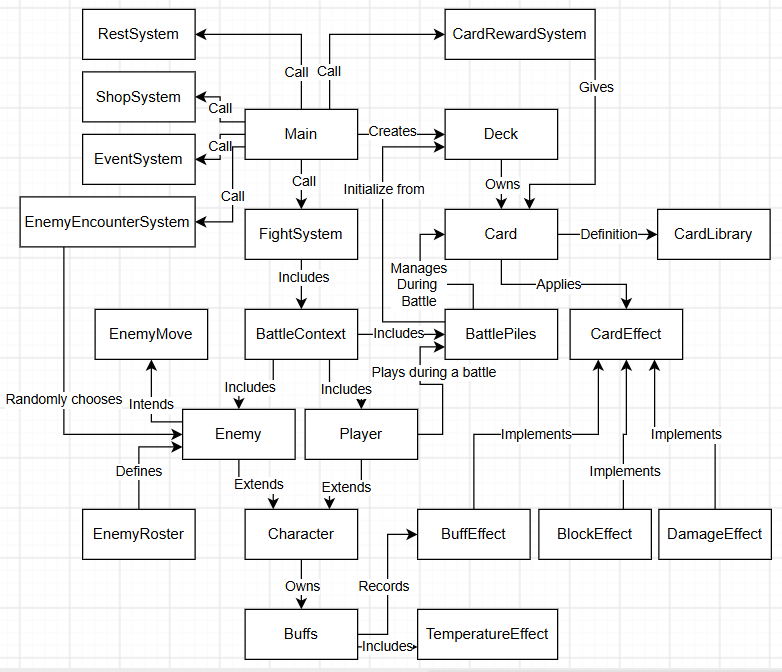
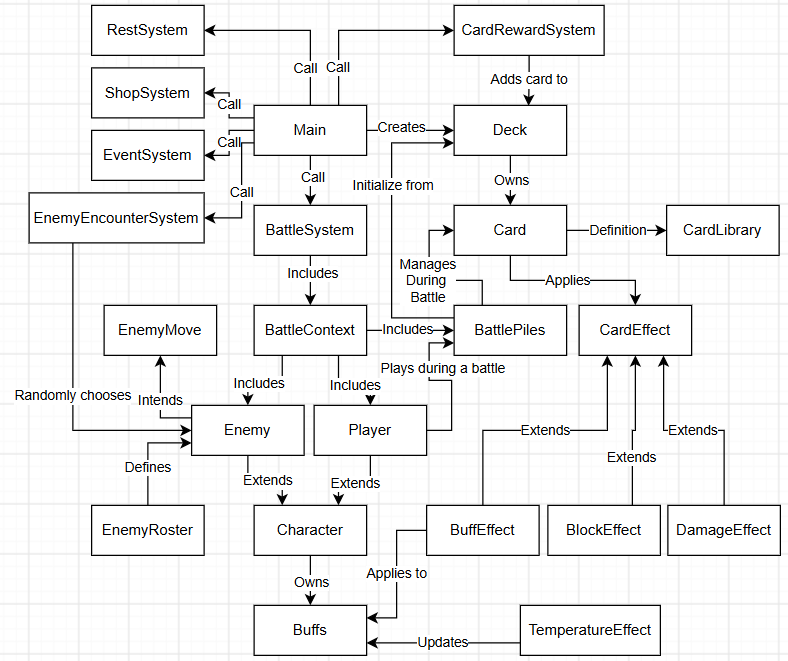
Replace system diagram with corrected version

Changed region(s): [[0.0, 0.0, 1.0, 1.0], [0.7366, 0.121, 0.798, 0.1513]]

diff --git a/README.md b/README.md
@@ -41,7 +41,7 @@ Other test classes are in `SlayVT/src/SlayVTGame/` and end in `Test.java`. `Sour
 
 ## System diagram
 
-![SlayVT system diagram](docs/system-diagram.png)
+![SlayVT system architecture and class relationships](docs/system-diagram.png)
 
 ## Project layout
 
